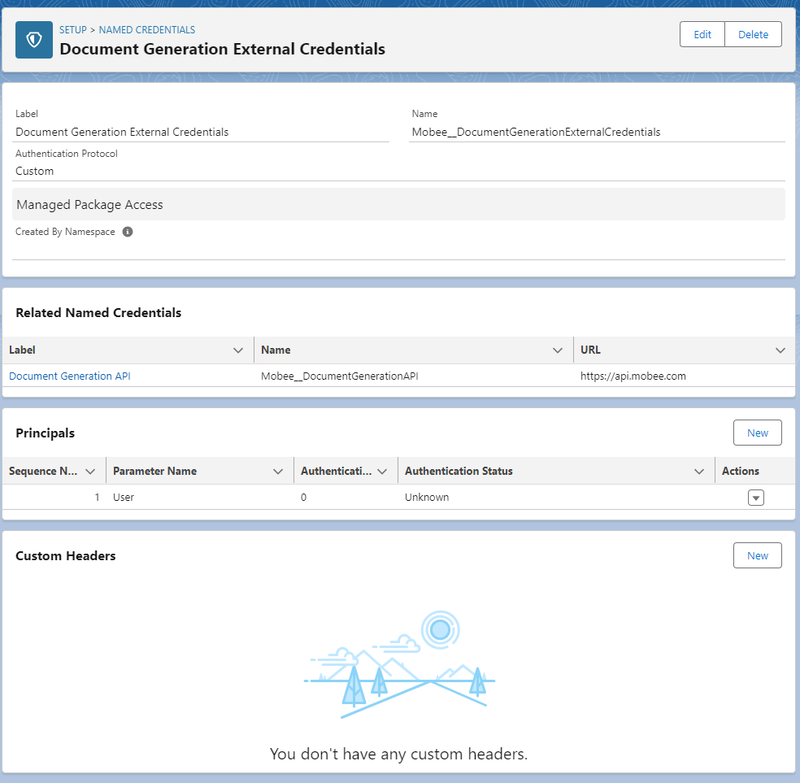
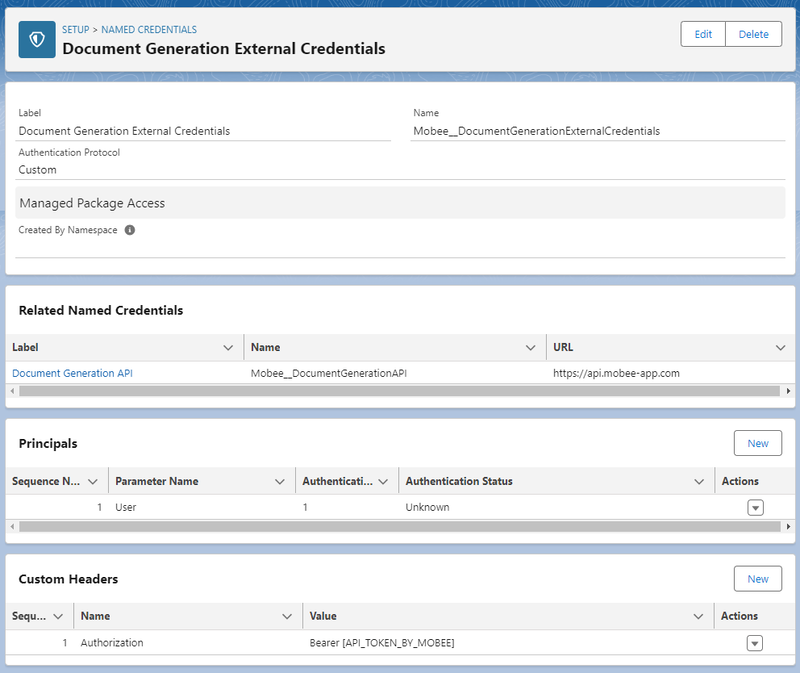
update external credentials documentation

Changed region(s): [[0.0, 0.0, 1.0, 0.9985]]

diff --git a/i18n/fr/docusaurus-plugin-content-docs/current/documentation-api/6 - Named Credential/Named Credential.md b/i18n/fr/docusaurus-plugin-content-docs/current/documentation-api/6 - Named Credential/Named Credential.md
@@ -1,14 +1,14 @@
 # Configuration des identifiants externes pour le générateur de documents Mobee
 
-Ce document fournit un guide étape par étape sur la configuration des identifiants externes pour le générateur de documents Mobee, y compris la création d'un protocole d'authentification personnalisé, l'ajout de paramètres, d'en-têtes personnalisés et l'intégration avec Uprizon pour l'authentification.
+Ce document fournit un guide étape par étape sur la configuration des identifiants externes pour le générateur de documents Mobee, notamment la création d'un protocole d'authentification personnalisé, l'ajout de paramètres, d'en-têtes personnalisés, et l'intégration avec Uprizon pour l'authentification.
 
 ## Configuration des identifiants externes
 
-1. Ouvrez l'interface de gestion des identifiants externes en accédant à **Configuration** > **Sécurité** > **Identifiants nommés**.
+1. Ouvrez l'interface de gestion des identifiants externes en naviguant vers **Configuration** > **Sécurité** > **Identifiants nommés**.
 
    ![Image d'exemple](./img/Setup-Named-Credentials.png)
 
-2. Cliquez sur l'onglet "Identifiants externes".
+2. Cliquez sur l'onglet "Identifiants Externes".
 
    ![Image d'exemple](./img/Named-Credentials.png)
 
@@ -16,47 +16,46 @@ Ce document fournit un guide étape par étape sur la configuration des identifi
 
    ![Image d'exemple](./img/External-Credentials.png)
 
-4. À l'intérieur de "Document Generation External Credentials", trouvez le principe avec le nom de paramètre "user". Cliquez sur la flèche à droite et sélectionnez "Modifier".
-
    ![Image d'exemple](./img/External-Credentials-Page.png)
+
+4. À l'intérieur de "Document Generation External Credentials", trouvez le principal avec le nom de paramètre "User", cliquez sur la flèche à droite et sélectionnez "Modifier".
 
    ![Image d'exemple](./img/Principals.png)
 
    ![Image d'exemple](./img/Principals-Edit-Button.png)
 
-5. À l'intérieur de la fenêtre des principaux, ajoutez des paramètres d'authentification :
-    - Cliquez sur le bouton "Ajouter" à côté des Paramètres d'authentification.
-    - Dans la section Paramètre 1, ajoutez :
-        - **Nom :** Autorisation
-        - **Valeur :** [Jeton fourni par Mobee]
+5. À l'intérieur de la fenêtre Principaux, ajoutez le jeton aux paramètres d'authentification :
+    - Dans la section Paramètre 1, remplacez la **Valeur** par le jeton fourni par Mobee :
+        - **Nom :** Authorization
+        - **Valeur :** Bearer [Jeton fourni par Mobee]
 
-          **Note :** Avant de sauvegarder, assurez-vous que le jeton a le préfixe "Bearer ". Sinon, ajoutez le préfixe avec un espace. 
-          
[1 lines of base64/hex data omitted]
+          **Remarque :** Avant de sauvegarder, assurez-vous que le jeton a le préfixe "Bearer ". Si ce n'est pas le cas, ajoutez le préfixe suivi d'un espace.
+
+            Par exemple : Si le jeton est `eyJhbGciOiJIUzI1NiIsInR5cCI6IkpXVCJ9.eyJzdWIiOiIxMjM0NTY3ODkwIiwibmFtZSI6IkpvaG4gRG9lIiwiaWF0IjoxNTE2MjM5MDIyfQ.SflKxwRJSMeKKF2QT4fwpMeJf36POk6yJV_adQssw5c`, faites-le : `Bearer eyJhbGciOiJIUzI1NiIsInR5cCI6IkpXVCJ9.eyJzdWIiOiIxMjM0NTY3ODkwIiwibmFtZSI6IkpvaG4gRG9lIiwiaWF0IjoxNTE2MjM5MDIyfQ.SflKxwRJSMeKKF2QT4fwpMeJf36POk6yJV_adQssw5c`
+
     - Cliquez sur "Enregistrer" pour sauvegarder les modifications.
 
-   ![Image d'exemple](./img/Principals-Add-Parameter.png)
+   ![Image d'exemple](./img/Principals-Window.png)
 
-6. Dans "Document Generation External Credentials", accédez à la section En-têtes personnalisés et cliquez sur "Nouveau" pour ajouter un nouvel en-tête personnalisé.
+6. Dans "Document Generation External Credentials", trouvez l'en-tête personnalisé avec le nom "Authorization", cliquez sur la flèche à droite et sélectionnez "Modifier".
 
    ![Image d'exemple](./img/Custom-Headers.png)
 
-7. À l'intérieur de la fenêtre des En-têtes personnalisés, ajoutez un nouvel en-tête personnalisé.
-    - Ajoutez :
-        - **Nom :** Autorisation
-        - **Valeur :** [Jeton fourni par Mobee]
+   ![Image d'exemple](./img/Custom-Headers-Edit-Button.png)
 
-          **Note :** Avant de sauvegarder, assurez-vous que le jeton a le préfixe "Bearer ". Sinon, ajoutez le préfixe avec un espace. 
-          
[1 lines of base64/hex data omitted]
+7. À l'intérieur de la fenêtre En-tête personnalisé, ajoutez le jeton à l'en-tête personnalisé :
+    - Remplacez la **Valeur** par le jeton fourni par Mobee :
+        - **Nom :** Authorization
+        - **Valeur :** Bearer [Jeton fourni par Mobee]
+
+          **Remarque :** Avant de sauvegarder, assurez-vous que le jeton a le préfixe "Bearer ". Si ce n'est pas le cas, ajoutez le préfixe suivi d'un espace.
+
+            Par exemple : Si le jeton est `eyJhbGciOiJIUzI1NiIsInR5cCI6IkpXVCJ9.eyJzdWIiOiIxMjM0NTY3ODkwIiwibmFtZSI6IkpvaG4gRG9lIiwiaWF0IjoxNTE2MjM5MDIyfQ.SflKxwRJSMeKKF2QT4fwpMeJf36POk6yJV_adQssw5c`, faites-le : `Bearer eyJhbGciOiJIUzI1NiIsInR5cCI6IkpXVCJ9.eyJzdWIiOiIxMjM0NTY3ODkwIiwibmFtZSI6IkpvaG4gRG9lIiwiaWF0IjoxNTE2MjM5MDIyfQ.SflKxwRJSMeKKF2QT4fwpMeJf36POk6yJV_adQssw5c`
+
     - Cliquez sur "Enregistrer" pour sauvegarder l'en-tête personnalisé.
-
-   ![Image d'exemple](./img/Custom-Headers-Add-Parameter.png)
+    
+   ![Image d'exemple](./img/Custom-Headers-Windows.png)
 
 8. Vous avez maintenant terminé la configuration des identifiants externes pour le générateur de documents Mobee.
 
-   Assurez-vous que lorsque le jeton fourni par Mobee est mis à jour, vous devez mettre à jour le jeton dans les Paramètres d'authentification et les En-têtes personnalisés.
-
-## Conclusion
-
-En suivant ces étapes, vous avez configuré avec succès des identifiants externes pour le générateur de documents Mobee avec une authentification personnalisée, des en-têtes personnalisés et une intégration avec Uprizon pour une authentification sécurisée. Les utilisateurs avec l'ensemble d'autorisations approprié peuvent maintenant accéder sans problème à l'API du générateur de documents Mobee.
+   Assurez-vous que lorsque le jeton fourni par Mobee est mis à jour, vous devez mettre à jour le jeton dans les paramètres d'authentification et les en-têtes personnalisés.

diff --git a/docs/documentation-api/6 - Named Credential/Named Credential.md b/docs/documentation-api/6 - Named Credential/Named Credential.md
@@ -16,44 +16,45 @@ This document provides a step-by-step guide on how to set up external credential
 
    ![Sample Image](./img/External-Credentials.png)
 
-4. Inside the "Document Generation External Credentials," find the principal with the Parameter Name "user." Click on the arrow on the right and select "Edit."
-
    ![Sample Image](./img/External-Credentials-Page.png)
+
+4. Inside the "Document Generation External Credentials", find the principal with the Parameter Name "user", click on the arrow on the right and select "Edit".
 
    ![Sample Image](./img/Principals.png)
 
    ![Sample Image](./img/Principals-Edit-Button.png)
 
-5. Inside the Principals Window, Add Authentication Parameters:
-    - Click on the "Add" button next to Authentication Parameters.
-    - In the Parameter 1 section, add:
+5. Inside the Principals Window, Add The Token To The Authentication Parameters:
+    - In the Parameter 1 section, replace the **Value** by the token provided by Mobee:
         - **Name:** Authorization
-        - **Value:** [Token provided by Mobee]
+        - **Value:** Bearer [Token provided by Mobee]
 
           **Note:** Before saving, ensure that the token has the "Bearer " prefix. If not, add the prefix with a space.
 
[1 lines of base64/hex data omitted]
+            For example: If the token is `eyJhbGciOiJIUzI1NiIsInR5cCI6IkpXVCJ9.eyJzdWIiOiIxMjM0NTY3ODkwIiwibmFtZSI6IkpvaG4gRG9lIiwiaWF0IjoxNTE2MjM5MDIyfQ.SflKxwRJSMeKKF2QT4fwpMeJf36POk6yJV_adQssw5c`, make it: `Bearer eyJhbGciOiJIUzI1NiIsInR5cCI6IkpXVCJ9.eyJzdWIiOiIxMjM0NTY3ODkwIiwibmFtZSI6IkpvaG4gRG9lIiwiaWF0IjoxNTE2MjM5MDIyfQ.SflKxwRJSMeKKF2QT4fwpMeJf36POk6yJV_adQssw5c`
 
     - Click on "Save" to save the changes.
 
-   ![Sample Image](./img/Principals-Add-Parameter.png)
+   ![Sample Image](./img/Principals-Window.png)
 
-6. In the "Document Generation External Credentials," navigate to the Custom Headers section and click on "New" to add a new custom header.
+6. In the "Document Generation External Credentials," find the custom header with the Name "Authorization", click on the arrow on the right and select "Edit".
 
    ![Sample Image](./img/Custom-Headers.png)
 
-7. Inside the Custom Header Window, add a new custom header.
-    - Add:
+   ![Sample Image](./img/Custom-Headers-Edit-Button.png)
+
+7. Inside the Custom Header Window, Add The Token To The Custom Header:
+    - Replace the **Value** by the token provided by Mobee:
         - **Name:** Authorization
-        - **Value:** [Token provided by Mobee]
+        - **Value:** Bearer [Token provided by Mobee]
 
           **Note:** Before saving, ensure that the token has the "Bearer " prefix. If not, add the prefix with a space. 
           
[1 lines of base64/hex data omitted]
+            For example:If the token is `eyJhbGciOiJIUzI1NiIsInR5cCI6IkpXVCJ9.eyJzdWIiOiIxMjM0NTY3ODkwIiwibmFtZSI6IkpvaG4gRG9lIiwiaWF0IjoxNTE2MjM5MDIyfQ.SflKxwRJSMeKKF2QT4fwpMeJf36POk6yJV_adQssw5c`, make it: `Bearer eyJhbGciOiJIUzI1NiIsInR5cCI6IkpXVCJ9.eyJzdWIiOiIxMjM0NTY3ODkwIiwibmFtZSI6IkpvaG4gRG9lIiwiaWF0IjoxNTE2MjM5MDIyfQ.SflKxwRJSMeKKF2QT4fwpMeJf36POk6yJV_adQssw5c`
 
     - Click on "Save" to save the custom header.
     
-   ![Sample Image](./img/Custom-Headers-Add-Parameter.png)
+   ![Sample Image](./img/Custom-Headers-Windows.png)
 
 8. You are now done with the setup for Mobee Document Generator External Credentials.
 
